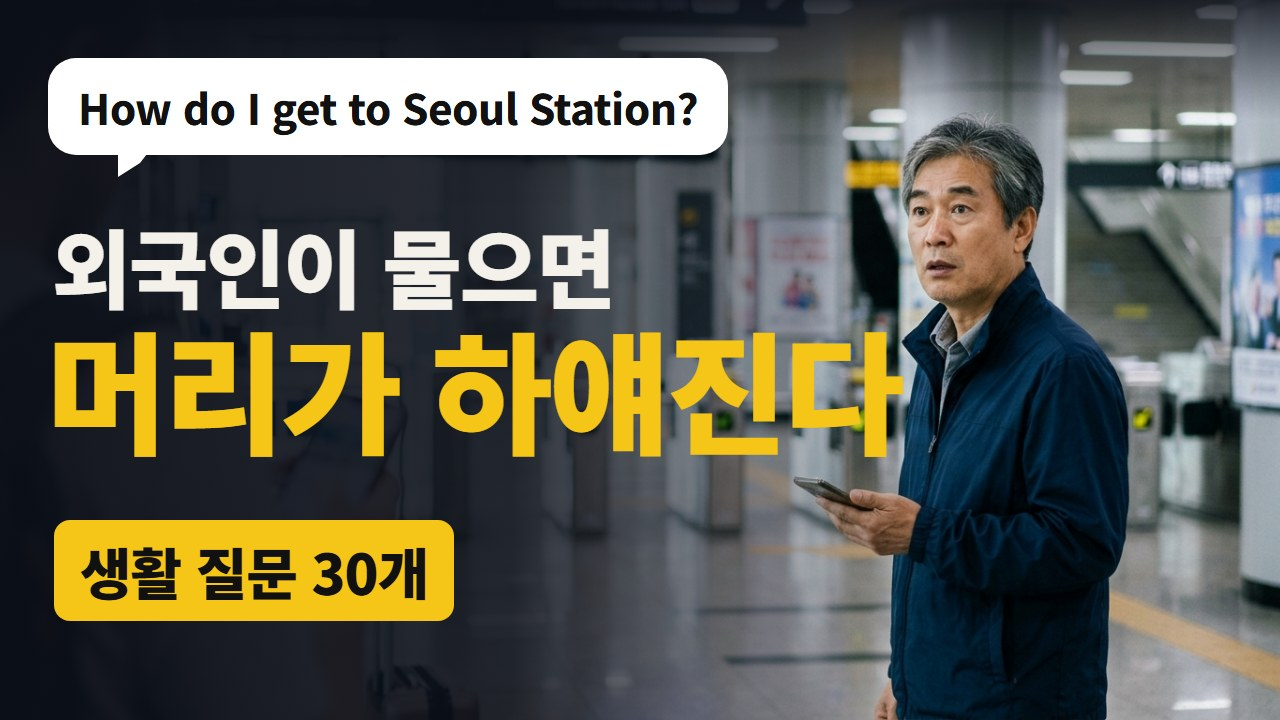
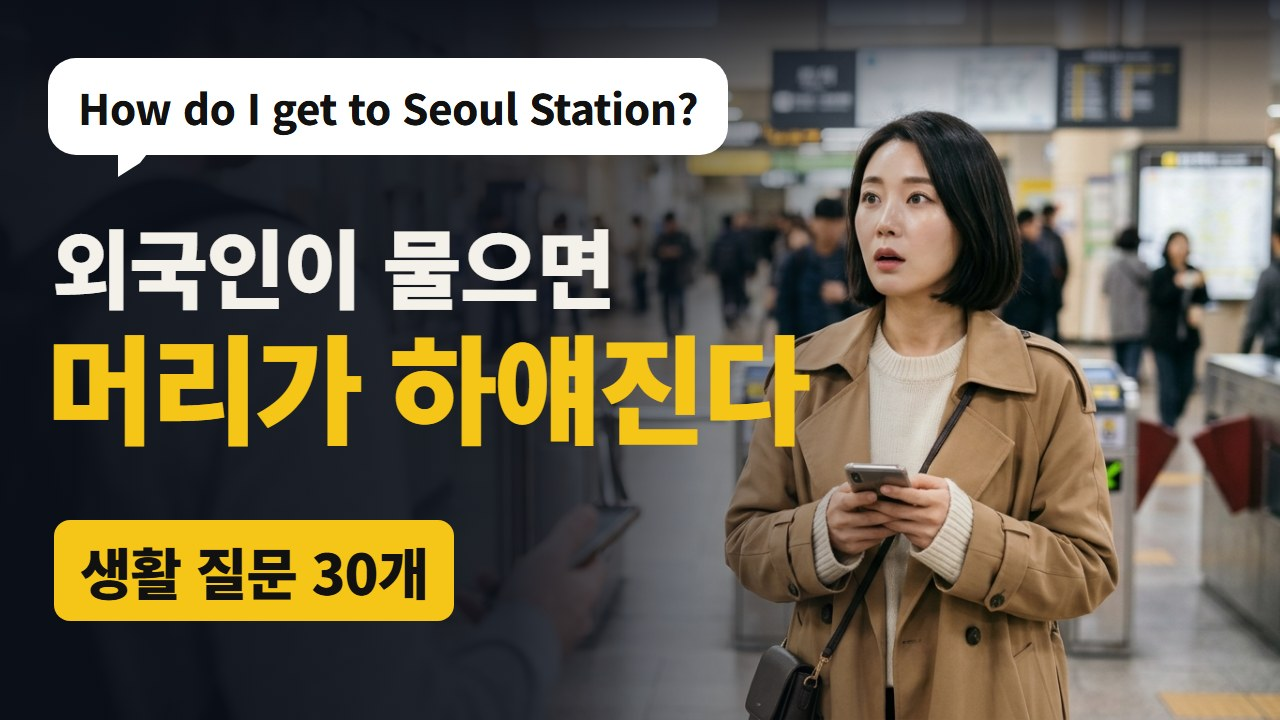
fix(ep37): 썸네일 A안 인물을 요즘 차림의 30대로 다시 만듦(사용자 지적)
- 1차 A안은 지시문에 50대 후반 남성을 넣어 올드하게 나왔다. 3060은 화면 인물을
  나이로 가두는 기준이 아니라는 11/21~22 결정을 어긴 것이라 나이 지시를 빼고 다시 생성
- 이전 그림은 thumb-a-bg-v1-rejected.jpg로 남기고 실패 이유 기록
- 시트 문구·FACT-CHECK 갱신, validateSheet 0건, 대시보드에서 새 그림 확인
- Gate 1 첫 반응(시험 렌더 안 함, 12/03 마감 유지) 인수인계에 기록

diff --git a/knowledge/handoff/2026-11-25.md b/knowledge/handoff/2026-11-25.md
@@ -78,3 +78,4 @@
 - **확인하지 못한 것**: 영어·한국어 음성은 아직 없다(승인 전 금지) → 한글 소리 표기('캐나이'·'크나이' 등)는 전부 청취 필요. Korean Skills 중 style-guide·humanizer는 스킬로 따로 돌리지 않았다(Sonnet 5시간 한도로 보조 에이전트 중단 — 비평가 검수와 slop-rewrite로 대신, 승인 뒤 음성 전에 한 번 돌릴 것). 2~5장 장면 그림은 시안에 "승인 뒤 생성" 자리 표시만. 서울교통공사 노선도 대조는 업로드 전.
 - **함정**: Cambridge·Merriam-Webster는 자동 접속 403. 브라우저인 척 우회하는 curl은 자동 모드 분류기가 막는다 → 위키낱말사전·VOA·PhraseMix 같은 열린 원문으로 확인. 결과 그림 `raw/thumb-a-bg.jpg` 위쪽 안내판에 알아볼 수 없는 가짜 글자가 있어 어둡게 덮어 씀.
 - **이어서 할 일**: 사용자에게 Gate 1 보고(안전 확인·썸네일/제목 반응 + 1분 시험 렌더 허락·마감 대안) → 승인 시 영어 음성 77개 먼저 → `AUDIO-AUDIT.md` 문항별 청취 → 해설을 실제 소리에 맞춤 → 한국어 음성 → `build-sheet.mjs` 다시 돌려 실측 시간표 → 조립 → Gate 2(목표 11/30 밤).
+- **Gate 1 첫 반응 (사용자, 같은 대화)**: ① 시트는 직접 보고 승인하겠다(아직 승인 전) ② **썸네일 A안을 "3060 타깃에 맞춰 60대 할아버지처럼 그렸다"고 지적**("꼭 타깃에 맞출 필요 없다고 말했는데도… 요즘 3060세대가 얼마나 트렌디한데") — 11/21~22 결정(3060은 화면 인물을 올드하게 가두는 기준이 아님)을 내가 지시문에 "late fifties"로 어긴 것. 나이 지시를 빼고 요즘 차림의 30대 직장인으로 다시 만들었다(이전 그림 `raw/thumb-a-bg-v1-rejected.jpg`와 실패 이유 `.txt` 남김, 개인 기억에도 기록) ③ 11/27 1분 시험 렌더는 **하지 않음** ④ 마감은 **12/03에 맞춘다**(범위 축소·연기 안 함), 시트 검수부터.

diff --git a/videos/ep37-listen-frozen-questions/FACT-CHECK.md b/videos/ep37-listen-frozen-questions/FACT-CHECK.md
@@ -51,7 +51,7 @@
 
 | 위치 | 주장·문구 | 판정 | 근거 | 조치 |
 |---|---|---|---|---|
-| 썸네일 A | "외국인이 물으면 머리가 하얘진다", "생활 질문 30개" | 확인됨 | "머리가 하얘짐"은 `audience-dna.json` 시청자 말(설계서 2절 인용). 30개는 문항 수 | 효과 약속 문구 없음 |
+| 썸네일 A | "외국인이 물으면 머리가 하얘진다", "생활 질문 30개" (인물: AI로 만든 가상의 30대 직장인, 1차 50대 남성안은 사용자 지적으로 버림) | 확인됨 | "머리가 하얘짐"은 `audience-dna.json` 시청자 말(설계서 2절 인용). 30개는 문항 수 | 효과 약속 문구 없음 |
 | 썸네일 B | "몇 단어 들리세요?", "다 듣지 말고, 두 군데만" | 일부 확인 | 1장 원리(작은 말은 작다). 모든 문항에 '두 군데'가 맞는 건 아니다(5장은 앞머리 빠짐) | 1장 대표 질문을 그대로 보여 주는 시안이라 유지. 시트에 한계 적음 |
 | 썸네일 C | "틀어 두고 듣는 영어 질문 30", "대답 30 · 소리 규칙 다섯 가지", "출퇴근길" | 확인됨 | 2부가 틀어 두고 듣는 구간(대본). 수량은 파일 | "틀어만 두면 된다" 같은 효과 약속 없음 |
 | 화면 시안 | 글자 크기 = 소리 세기 | 계획 | 음성 만든 뒤 소리 세기에서 계산(설계서 5절). 시안 크기는 예시 | 시트에 "시안" 표시 |
